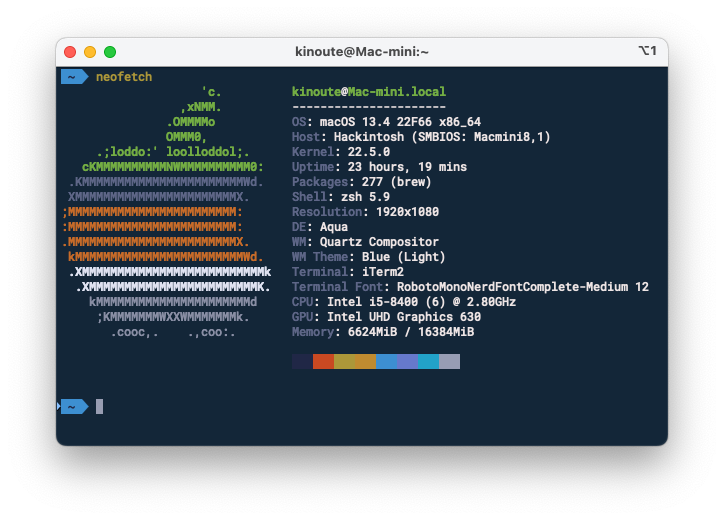
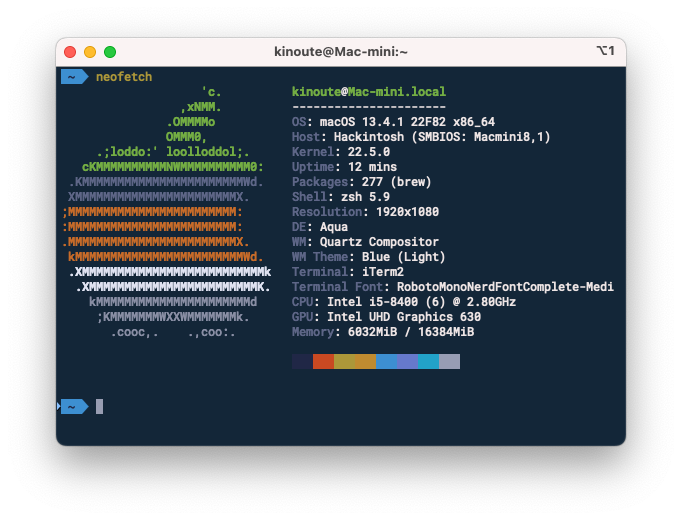
Upgrade to macOS Ventura 13.4.1

Changed region(s): [[0.0616, 0.0615, 0.9238, 0.8615], [0.4311, 0.6769, 0.6774, 0.7077], [0.4003, 0.0923, 0.585, 0.1231]]

diff --git a/README.md b/README.md
@@ -1,6 +1,6 @@
 # Hackintosh
 
-A Hackintosh running macOS Ventura 13.4 with a i5-8400 and a Gigabyte Z370-HD3P.
+A Hackintosh running macOS Ventura 13.4.1 with a i5-8400 and a Gigabyte Z370-HD3P.
 
 ![System spec](Pictures/system.png)
 
@@ -45,7 +45,7 @@ If you're curious, I changed two things in my `config.plist` to fix Catalina:
 
 I built my Hackintosh because I was disappointed with the price of the new Mac Mini 2018. Its configuration is close to the new mid-entry Mac Mini but with more RAM (16 instead of 8 Gb). Here are the specs:
 
-- macOS Ventura 13.4
+- macOS Ventura 13.4.1
 - Intel i5-8400 (6 cores @ 2.80 Ghz, 3.80 Ghz Turbo Boost)
 - Gigabyte Z370-HD3P
 - Corsair Vengeance LPX 16Gb (2x8Gb) DDR4 2666MHz OC @ 3200 Mhz (CMK16GX4M2A2666C16)
